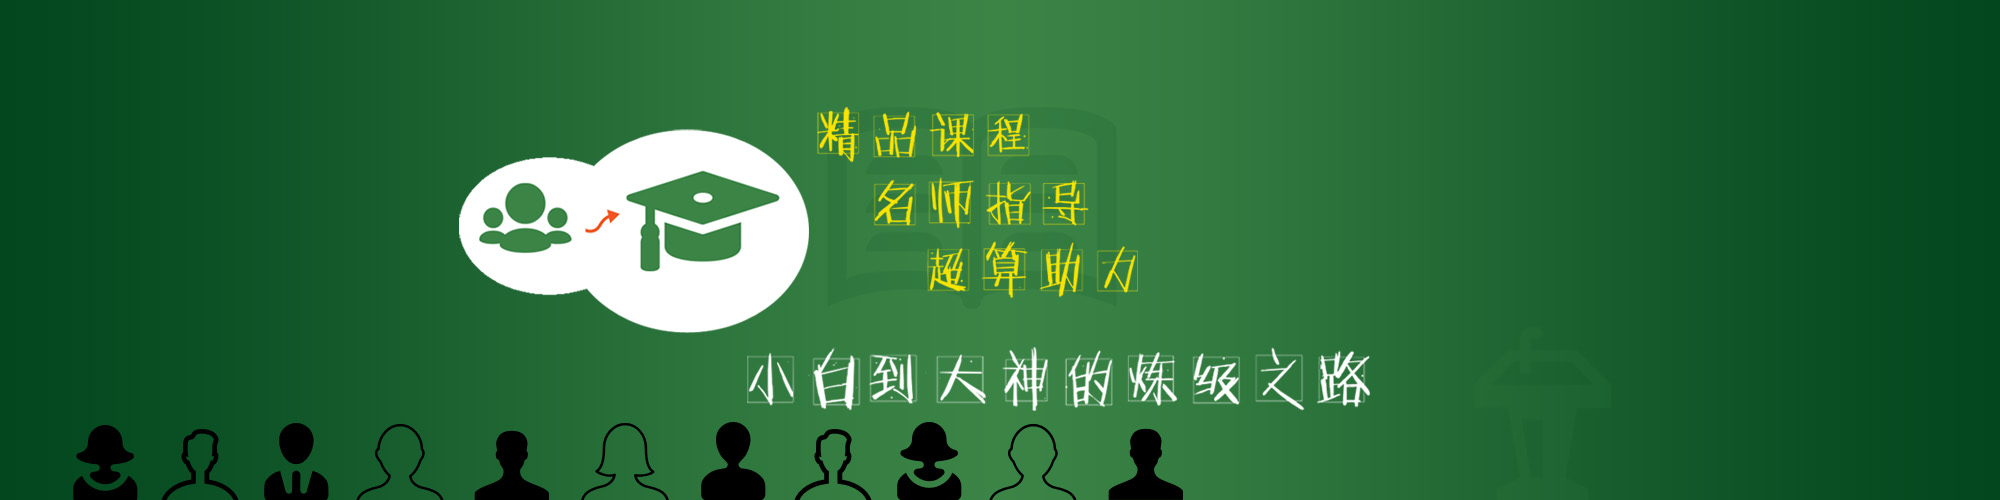
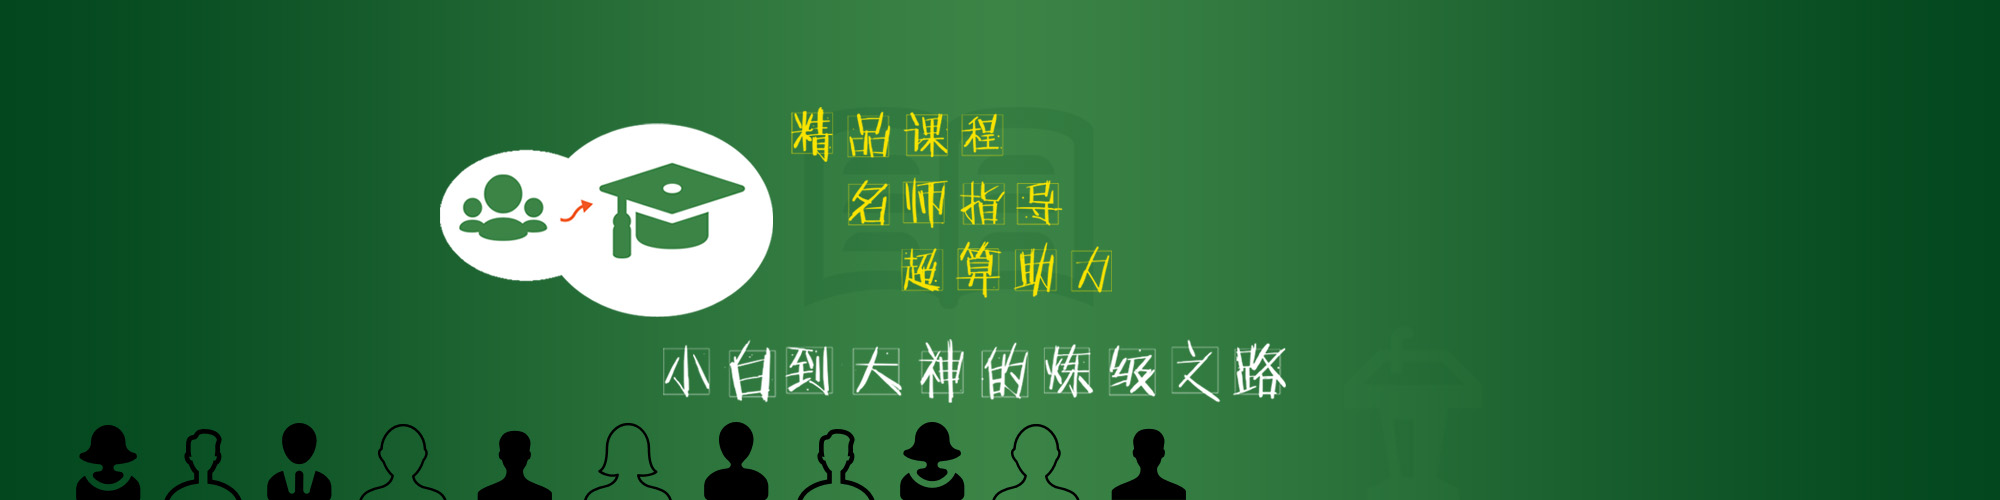
小细节部分修复
修复案例里面的样式冲突
修复 issues 322
调整第三张轮播图

diff --git a/eHPC/static/css/main.css b/eHPC/static/css/main.css
@@ -148,7 +148,7 @@ select:-webkit-autofill {
     height: 80px;
     line-height: 70px;
     padding: 5px 10px;
-    color: #fff;
+    color: black;
 }
 
 @media (max-width: 767px) {

diff --git a/eHPC/static/css/case.css b/eHPC/static/css/case.css
@@ -1,4 +1,4 @@
-.container {
+.content-wrap .container {
     margin-top: 25px;
 }
 @media (min-width: 1400px) {

diff --git a/eHPC/main/views.py b/eHPC/main/views.py
@@ -12,15 +12,15 @@ from flask_login import current_user
 
 @main.route('/')
 def index():
-    courses = Course.query.limit(8)
-    groups = Group.query.order_by(Group.memberNum.desc()).limit(6)
-    articles = Article.query.order_by(Article.updatedTime.desc()).limit(5)
+    courses = Course.query.limit(8).all()
+    groups = Group.query.order_by(Group.memberNum.desc()).limit(6).all()
+    articles = Article.query.order_by(Article.updatedTime.desc()).limit(5).all()
     if current_user.is_authenticated:
         user_posts = current_user.posts.order_by(Post.createdTime.desc()).limit(8).all()
         user_topics = []
         for p in user_posts:
             user_topics.append(p.topic)
-        user_courses = current_user.courses
+        user_courses = current_user.courses.limit(8).all()
         user_question = UserQuestion.query.order_by(UserQuestion.last_time.desc()).limit(5).all()
         user_submits = SubmitProblem.query.order_by(SubmitProblem.submit_time.desc()).filter_by(
             uid=current_user.id).limit(5).all()
